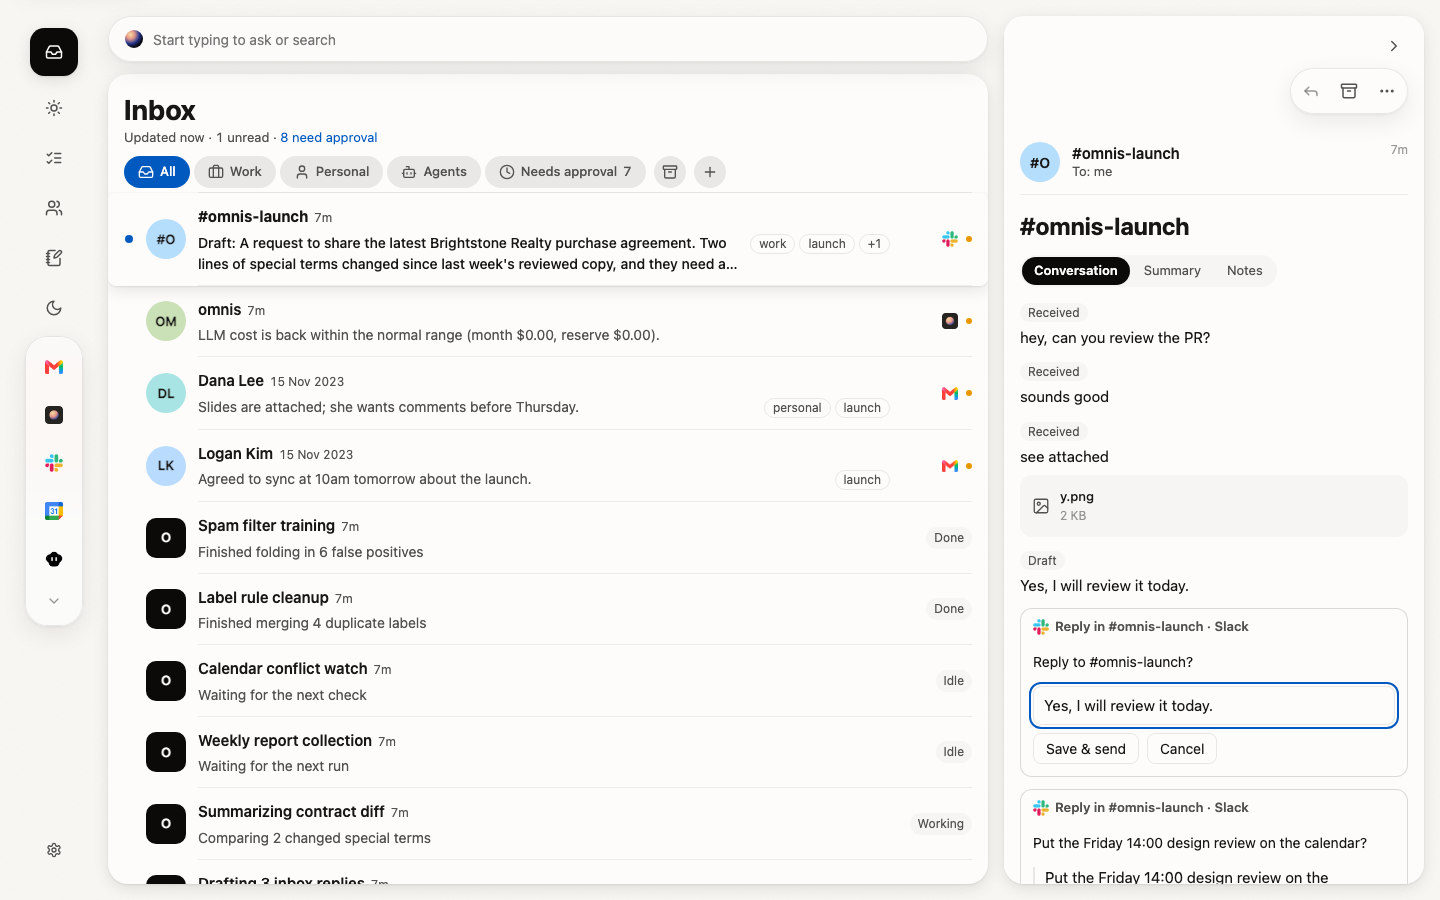
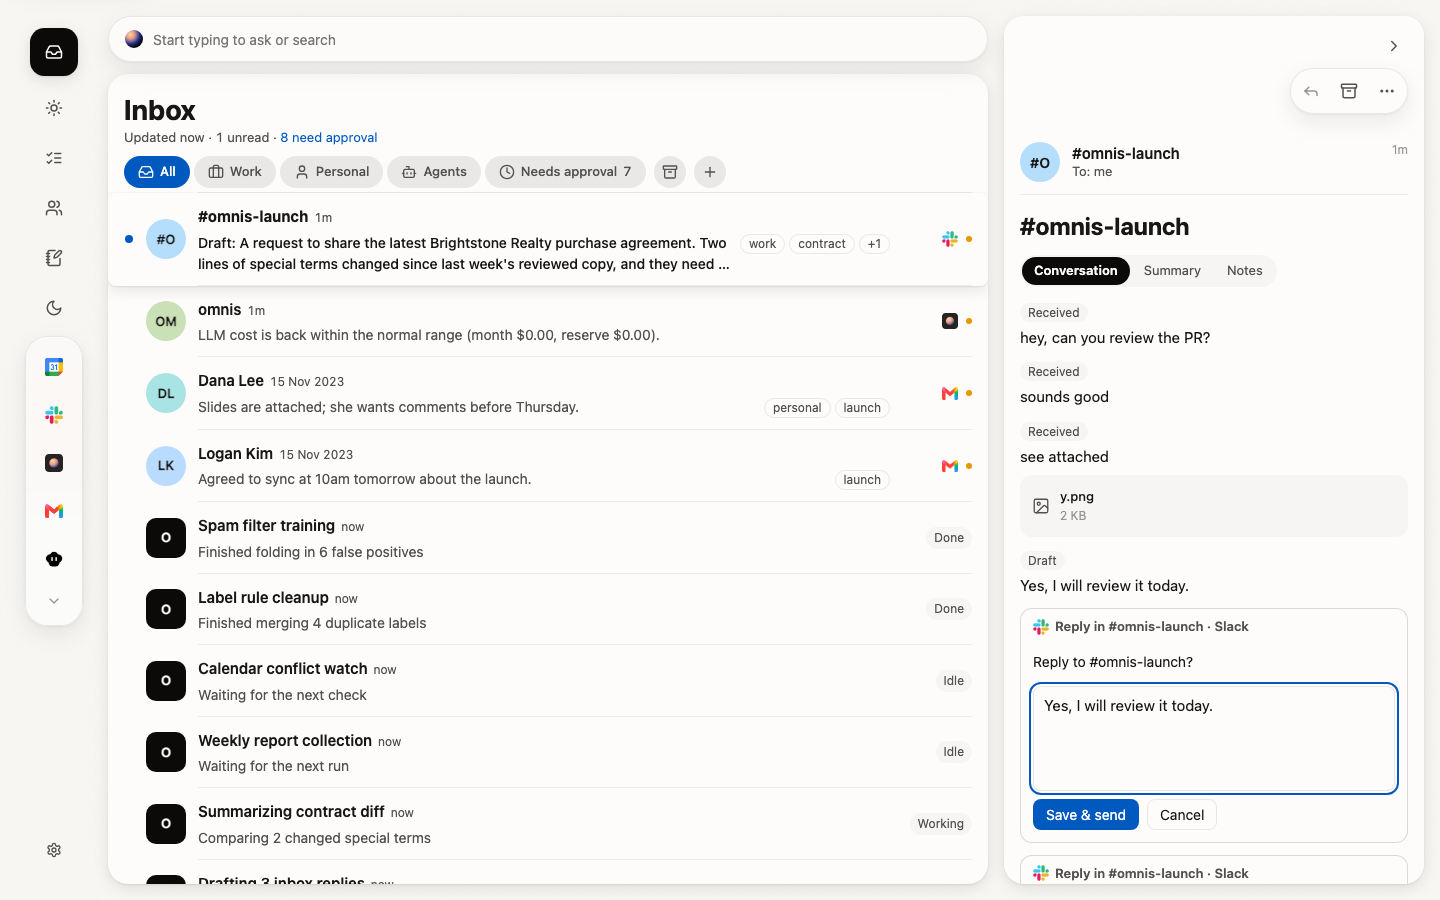
loop-r2-01: Approval card: Edit and Respond open an editor, and the card shows where it goes
Second pass, on the two points the first was sent back for.

Both were the same kind of bug: a declaration that resolves to nothing in the
app that runs. `Button`'s `primary` variant is Tailwind utilities and neither
app compiles Tailwind, so "Approve" and "Save & send" came out wearing the same
transparent hairline as the ghosts beside them — the L2-37 complaint verbatim.
The variant is now on the element as `data-variant` (button.tsx), which a plain
stylesheet can read, and `.approval-card__actions button[data-variant="primary"]`
paints it with the app's own confirm fill (accent + inverse text, §c.8), dropping
the hairline rather than drawing one around a filled button. Read, edit and
respond each lead with their primary; the ghosts after it keep the hairline.

The editor's four-row floor had the same shape. `field-sizing: content` makes
Chromium ignore the `rows` attribute, so `rows={4}` was not a floor and the box
opened ~46px tall — one line. The floor is written out where the cap already
was, in the same arithmetic: `min-height: calc(4 * 1.45 * 15px + 18px)`.

Both are invisible to jsdom, which is how they got past the first pass's tests,
so both are now measured on the running page by tools/e2e/shots-loop-r2-01.ts in
the frame each screenshot is about: the row's first button must be filled and
differ from the ghost beside it, and the editor's box must clear the 4-line
height. The 1440 and 390 shots are retaken.

Implemented-by: DeepSeek V4.1 Flash

diff --git a/tools/e2e/shots-loop-r2-01.ts b/tools/e2e/shots-loop-r2-01.ts
@@ -22,6 +22,9 @@
 //   5. The second card names its own thread, with all four buttons (the round-2 "four equal buttons"
 //      complaint was on the card nobody could tell apart from its neighbours).
 //   6. No horizontal overflow at 1440, 390 or 320 — the sweep runs with that four-button card up.
+//   6b. The two things the first attempt was rejected on, both measured on the running page because
+//       both are invisible to jsdom: the row's first button is filled against the ghosts beside it
+//       (L2-37), and the editor opens at its four-line floor rather than collapsing to one line.
 //   7. Respond opens a reply field and sends nothing until there is something to send, or until it
 //      is entered — then the decision is 'respond' and carries the reply.
 //
@@ -33,7 +36,7 @@
 // the thread it actually lives on — found by the row's `data-thread-id`, never by position.
 import { mkdirSync } from "node:fs";
 import { join } from "node:path";
-import { type Page, chromium } from "@playwright/test";
+import { type Locator, type Page, chromium } from "@playwright/test";
 import { Pool, query } from "../../packages/db/src/index.js";
 import { describeOverflow, measureOverflow } from "./overflow.js";
 import { REPO_ROOT, loadOrCreateEnv } from "./stack.js";
@@ -138,6 +141,46 @@ function cardFor(page: Page, description: string) {
   return page.locator(".approval-card").filter({ hasText: description }).first();
 }
 
+/** The paint and the box of a control, measured on the running page.
+ *
+ *  The first attempt at this story was rejected on two claims that no test in this repo could see:
+ *  "Approve and Save & send are not visually primary" and "the editor does not open at 4 rows". Both
+ *  are true only in a browser — jsdom has no CSS, and the two causes are silent there and in review:
+ *  `Button`'s `primary` variant is Tailwind utilities while neither app compiles Tailwind (so the
+ *  class string on the element resolves to nothing), and `field-sizing: content` makes Chromium
+ *  ignore the `rows` attribute (so the markup's floor is not a floor). So both are measured here,
+ *  in the frame each screenshot is about, rather than asserted about in a stylesheet nobody runs. */
+async function paint(locator: Locator): Promise<{ background: string; height: number }> {
+  return locator.evaluate((el) => {
+    const style = getComputedStyle(el);
+    return { background: style.backgroundColor, height: el.getBoundingClientRect().height };
+  });
+}
+
+/** No fill at all — Chromium reports a transparent background as either spelling depending on which
+ *  longhand won, so both count. */
+function isClear(background: string): boolean {
+  return background === "rgba(0, 0, 0, 0)" || background === "transparent";
+}
+
+/** L2-37: the row's first button is the decision, and it has to be filled against the ghosts beside
+ *  it. Checked as a pair — a fill on both, or on neither, is the same defect. */
+async function assertPrimary(card: Locator, label: string, ghostLabel: string): Promise<void> {
+  const primary = await paint(card.getByRole("button", { name: label }));
+  const ghost = await paint(card.getByRole("button", { name: ghostLabel }));
+  if (isClear(primary.background)) {
+    throw new Error(`"${label}" is not painted — it wears the same transparent fill as a ghost`);
+  }
+  if (primary.background === ghost.background) {
+    throw new Error(`"${label}" and "${ghostLabel}" are both ${primary.background}: no hierarchy`);
+  }
+  if (!isClear(ghost.background)) {
+    throw new Error(
+      `"${ghostLabel}" is filled (${ghost.background}) — the ghost should be a hairline`,
+    );
+  }
+}
+
 async function main(): Promise<void> {
   mkdirSync(OUT, { recursive: true });
   // tools/e2e/.env is written once and keeps whichever database the *first* stack in this worktree
@@ -228,7 +271,20 @@ async function main(): Promise<void> {
           `decision='${afterEditClick.decision ?? "null"}' — nothing was sent, but the row changed`,
       );
     }
-    console.log("  2. Edit opened the message; no /decide was sent and the row is still pending");
+    // Step 5's "4 rows min, growing to 10" is a claim about the box, and `rows` does not carry it:
+    // the browser drops the attribute the moment `field-sizing: content` applies, so a pre-filled
+    // one-liner would open ~46px tall. Measured against the 4-line height itself (15px/1.45), which
+    // is what the CSS floor is written from.
+    const editorBox = await paint(editor);
+    if (editorBox.height < 4 * 1.45 * 15) {
+      throw new Error(
+        `the editor opened ${editorBox.height}px tall — under the 4-line floor (${4 * 1.45 * 15}px)`,
+      );
+    }
+    await assertPrimary(replyCard, "Save & send", "Cancel");
+    console.log(
+      `  2. Edit opened the message ${Math.round(editorBox.height)}px tall; no /decide was sent and the row is still pending`,
+    );
     await page.screenshot({ path: join(OUT, "1440.png") });
 
     // ---- 3. The read state at 390, in the phone sheet ----------------------------------------------
@@ -271,6 +327,9 @@ async function main(): Promise<void> {
     if ((await replyCard.locator(".approval-card__body").count()) === 0) {
       throw new Error("the card at 390 is not quoting its message");
     }
+    // L2-37's other half: at the phone width the row still has to say which decision is the primary
+    // one. Asserted in the frame the 390 shot captures.
+    await assertPrimary(replyCard, "Approve", "Edit");
     await page.screenshot({ path: join(OUT, "390.png") });
     console.log(`  3. at 390 the sheet shows "${phoneHeader}" over the quoted message`);
 
@@ -371,6 +430,7 @@ async function main(): Promise<void> {
     if (decided.length !== sentBeforeRespond) {
       throw new Error("typing a reply sent it — nothing sends until it is sent");
     }
+    await assertPrimary(agreementCard, "Send to agent", "Cancel");
     await field.press("Enter");
     const answered = await poll(
       async () => state(pool, agreement.id),

diff --git a/apps/desktop/src/app.css b/apps/desktop/src/app.css
@@ -2049,13 +2049,18 @@ body {
   color: var(--text-tertiary);
 }
 
-/* Four lines to start, ten at most: `rows` is the floor and `field-sizing: content` grows the box
-   with the text up to the cap, so a one-line reply is one line tall and a long one scrolls at ten.
+/* Four lines to start, ten at most. `field-sizing: content` grows the box with the text up to the
+   cap, so a long message scrolls at ten and a short one does not open a band of emptiness.
+   The floor is NOT the markup's `rows={4}`: Chromium ignores `rows` the moment `field-sizing:
+   content` applies, so the editor opened one line tall (~46px) in the browser that actually runs
+   this app, whatever the attribute said. The floor is written out in the same arithmetic as the
+   cap — 4 lines of 15px/1.45 plus the field's 8px vertical padding and 1px border, twice.
    No resize handle — the box already sizes itself, and a manual grabber inside a card is a second,
    worse answer to the same question. */
 .approval-card__editor {
   resize: none;
   field-sizing: content;
+  min-height: calc(4 * 1.45 * 15px + 18px);
   max-height: calc(10 * 1.45 * 15px + 18px);
   overflow-y: auto;
 }
@@ -2138,6 +2143,20 @@ body {
   color: var(--text-primary);
   font: inherit;
   cursor: pointer;
+}
+
+/* loop-r2-01/L2-37: the primary decision has to read as primary. `Button`'s variant is Tailwind
+   utilities and apps/desktop compiles no Tailwind, so the class string on the element resolved to
+   nothing and every decision in this row wore the same hairline ghost — the round-2 complaint
+   verbatim ("four equal buttons, and Approve is not primary"). The variant is now on the element as
+   `data-variant` (button.tsx) and the fill is the app's own confirm pill — accent + inverse text
+   (`.confirm-prompt__button--confirm`, §c.8) — with the hairline dropped rather than drawn around
+   the edge of a filled button. Read, edit and respond each lead with their primary; the ghosts
+   after it keep the hairline. */
+.approval-card__actions button[data-variant="primary"] {
+  border-color: transparent;
+  background: var(--accent);
+  color: var(--accent-fg);
 }
 
 /* A disabled decision has to look disabled. `Button` says so with Tailwind's `disabled:opacity-50`,

diff --git a/packages/ui/src/components/button.tsx b/packages/ui/src/components/button.tsx
@@ -22,7 +22,17 @@ export interface ButtonProps
 
 export const Button = forwardRef<HTMLButtonElement, ButtonProps>(
   ({ className, variant, ...rest }, ref) => (
-    <button ref={ref} className={cn(buttonVariants({ variant }), className)} {...rest} />
+    <button
+      ref={ref}
+      /* The variant's own styling is Tailwind utilities, and neither of the two apps compiles
+         Tailwind — so in the app the variant is a class string that resolves to nothing, and a
+         primary Button comes out looking exactly like a ghost one. The attribute is the same intent
+         in a form a plain stylesheet can read (app.css: the approval card's action row, where
+         "Approve" has to read as the primary decision — L2-37). */
+      data-variant={variant ?? "primary"}
+      className={cn(buttonVariants({ variant }), className)}
+      {...rest}
+    />
   ),
 );
 Button.displayName = "Button";
